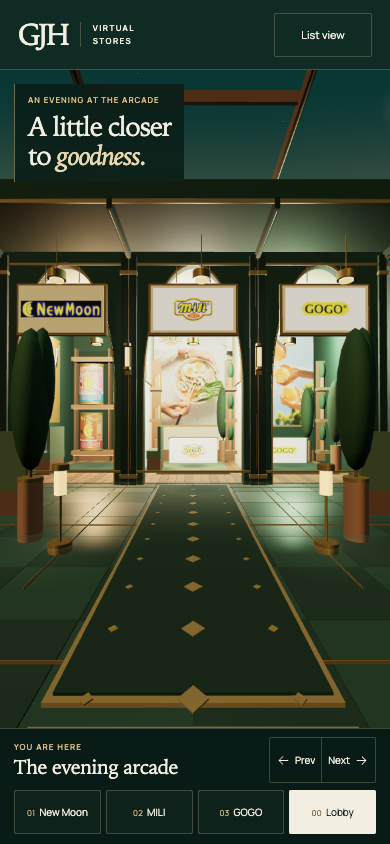
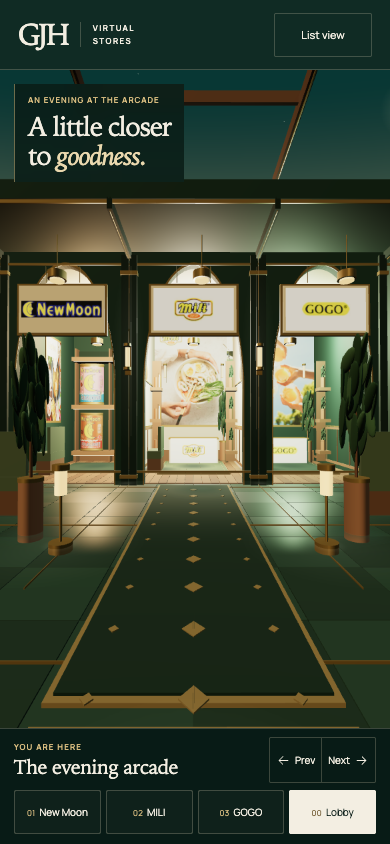
Polish V10 interiors, foliage and full-wrap can labels
Claude-Session: https://claude.ai/code/session_01N1UG954VUaWHEG8R9F3e2T

diff --git a/demos/corporate/gjh/v10/script.js b/demos/corporate/gjh/v10/script.js
@@ -151,7 +151,9 @@ async function initialize() {
   await Promise.all(filenames.map(async name => {
     const texture = await loader.loadAsync(`assets/${name}`);
     texture.colorSpace = THREE.SRGBColorSpace;
-    texture.anisotropy = Math.min(4, renderer.capabilities.getMaxAnisotropy());
+    texture.minFilter = THREE.LinearMipmapLinearFilter;
+    texture.magFilter = THREE.LinearFilter;
+    texture.anisotropy = Math.min(8, renderer.capabilities.getMaxAnisotropy());
     textures.set(name, texture);
   }));
   const material = (color, extra = {}) => new THREE.MeshStandardMaterial({color, roughness: .78, ...extra});
@@ -160,7 +162,8 @@ async function initialize() {
     wood: material(0x73543c), woodLight: material(0x846447), brass: material(0xb89a59, {metalness: .62, roughness: .37}),
     stone: material(0x40594b, {metalness: .12, roughness: .29}), stoneAlt: material(0x394e42, {metalness: .1, roughness: .34}),
     rug: material(0x253d32, {roughness: .96}), rugBorder: material(0x8d794b, {roughness: .88}),
-    upholstery: material(0x55654a), terracotta: material(0x936d50), foliage: material(0x314e35),
+    upholstery: material(0x55654a), terracotta: material(0x936d50),
+    foliage: material(0x314e35, {roughness: .95}), foliageLight: material(0x486646, {roughness: .95}),
     glow: material(0xffe4ae, {emissive: 0xffc773, emissiveIntensity: 1.1})
   };
   // Instancing keeps architectural detail inexpensive: one draw per geometry/material pair.
@@ -175,10 +178,10 @@ async function initialize() {
   const scale = new THREE.Vector3();
   const position = new THREE.Vector3();
   const rotation = new THREE.Euler();
-  function solid(type, mat, x, y, z, sx, sy, sz, ry = 0) {
+  function solid(type, mat, x, y, z, sx, sy, sz, ry = 0, rx = 0, rz = 0) {
     const key = `${type}:${mat}`;
     if (!batches.has(key)) batches.set(key, {geometry: geometries[type], material: materials[mat], transforms: []});
-    position.set(x, y, z); scale.set(sx, sy, sz); rotation.set(0, ry, 0); quaternion.setFromEuler(rotation);
+    position.set(x, y, z); scale.set(sx, sy, sz); rotation.set(rx, ry, rz); quaternion.setFromEuler(rotation);
     matrix.compose(position, quaternion, scale);
     batches.get(key).transforms.push(matrix.clone());
   }
@@ -307,12 +310,28 @@ async function initialize() {
     box('upholstery', x + Math.sin(ry) * .35, .92, z + Math.cos(ry) * .35, 2.15, .65, .18, ry);
     shadow(x, z, 3.3, 2.5);
   }
+  // Smooth, overlapping leaves share the existing sphere batches: no per-leaf draws.
+  function foliage(x, y, z, size = 1) {
+    // Stagger branch heights and leaf tilt rather than stacking conical whorls.
+    for (let branch = 0; branch < 9; branch++) {
+      const angle = branch * 2.39996;
+      const spread = Math.sin((branch + 1) / 10 * Math.PI) * .36;
+      for (let leaf = 0; leaf < 4; leaf++) {
+        const turn = angle + leaf * 1.7;
+        solid('sphere', (branch + leaf) % 4 ? 'foliage' : 'foliageLight',
+          x + (Math.sin(angle) * spread + Math.sin(turn) * .14) * size,
+          y + ((branch / 8 - .5) * .9 + Math.cos(turn) * .13) * size,
+          z + (Math.cos(angle) * spread + Math.cos(turn) * .14) * size,
+          .135 * size, .25 * size, .055 * size,
+          turn, .35 + Math.cos(turn) * .45, Math.sin(turn * 1.3) * .65);
+      }
+    }
+  }
   function plant(x, z) {
     cylinder('terracotta', x, .36, z, .34, .7);
     cylinder('brass', x, .71, z, .355, .045);
     cylinder('wood', x, 1.05, z, .045, 1.3);
-    sphere('foliage', x, 1.65, z, .55, .85, .48);
-    sphere('foliage', x + .28, 1.9, z - .12, .36, .62, .35);
+    foliage(x, 1.65, z);
     shadow(x, z, 2, 2);
   }
   // Layered cornices and softly lit pilasters articulate the arcade edges.
@@ -381,10 +400,11 @@ async function initialize() {
       const cans = createProductModels(THREE, arcade, textures, materials.brass);
       interactive.push(...cans);
       cans.forEach(mesh => proportioned.push({mesh, width: mesh.scale.x}));
-      artwork('new-moon-brand-cover.jpg', x - 3.35, 2.6, -5.8, 2.4, Math.PI / 2);
+      // Keep both faces clear of the wall and each other; coplanar backing caused jagged gold patches.
+      artwork('new-moon-brand-cover.jpg', x - 3.29, 2.6, -5.8, 2.4, Math.PI / 2);
       const coverTexture = textures.get('new-moon-brand-cover.jpg');
       const coverFrame = new THREE.Mesh(geometries.box, materials.brass);
-      coverFrame.position.set(x - 3.38, 2.6, -5.8);
+      coverFrame.position.set(x - 3.34, 2.6, -5.8);
       coverFrame.scale.set(.06, 2.4 * coverTexture.image.height / coverTexture.image.width + .12, 2.52);
       arcade.add(coverFrame);
       artwork('new-moon-logo.svg', x + 2.35, .65, -4.52, .7);
@@ -402,6 +422,19 @@ async function initialize() {
       box(room === 'mili' ? 'ivory' : 'green', x, .42, -7.7, 3.8, .8, 1.1);
       box('brass', x, .84, -7.7, 3.9, .045, 1.15);
       artwork(`${room}-logo.jpg`, x, .47, -7.12, 1.45);
+      // Layer the room edges, leaving the artwork and central approach unobstructed.
+      for (const side of [-1, 1]) {
+        for (const y of [.18, 1.18, 4.65]) box('woodLight', x + side * 3.3, y, -5.5, .06, .075, 8.6);
+        box('brass', x + side * 3.25, 1.24, -5.5, .025, .025, 8.6);
+        for (const z of [-8.8, -7, -5.2, -3.4]) box('woodLight', x + side * 3.3, .68, z, .06, .95, .045);
+        box('brass', x + side * 2.45, 3.05, -9.79, .23, .7, .12);
+        cylinder('glow', x + side * 2.45, 3.08, -9.6, .1, .42);
+        cylinder('brass', x + side * 2.45, 3.32, -9.6, .15, .045);
+        halo(x + side * 2.45, 3.08, -9.45, 1.3);
+      }
+      // Fine woven-style rug border, not additional merchandise.
+      for (const dx of [-2.05, 2.05]) box('rugBorder', x + dx, .084, -5.6, .025, .006, 5.2);
+      for (const z of [-8.2, -3]) box('rugBorder', x, .084, z, 4.1, .006, .025);
       // Shelves contain architectural decor only, never fictional products.
       for (const side of [-1, 1]) {
         const sx = x + side * 2.85;
@@ -409,9 +442,10 @@ async function initialize() {
         for (const y of [.45, 1.4, 2.35]) {
           box('woodLight', sx, y, -6.6, .85, .1, .85);
           cylinder('terracotta', sx, y + .21, -6.6, .17, .32);
-          if (side > 0) sphere('foliage', sx, y + .55, -6.6, .24, .28, .24);
+          if (side > 0) foliage(sx, y + .49, -6.6, .34);
           else {
             box('ivory', sx + .24, y + .25, -6.6, .07, .4, .3);
+            box('wood', sx + .12, y + .28, -6.6, .065, .46, .3, -.12);
             box('brass', sx + .33, y + .23, -6.6, .06, .36, .3);
           }
         }
@@ -419,7 +453,7 @@ async function initialize() {
       bench(x - 2.55, -3.9, Math.PI / 2);
       plant(x + 2.5, -8.9);
       if (room === 'gogo') {
-        plant(x - 2.5, -8.9); plant(x + 2.5, -3.6);
+        plant(x - 2.5, -8.9);
         for (let z = -8.8; z < -3; z += .5) box('woodLight', x - 3.32, 2.6, z, .065, 4.7, .045);
         box('brass', x - 3.27, 3.9, -6, .035, .035, 6);
       } else {

diff --git a/companies/gjh/index.html b/companies/gjh/index.html
@@ -10,7 +10,7 @@
   <meta name="apple-mobile-web-app-status-bar-style" content="default">
   <meta name="apple-mobile-web-app-title" content="Webpage Gallery">
   <meta name="app-version" content="1.0.0">
-  <meta name="app-build" content="0d7316713c10fcd4">
+  <meta name="app-build" content="d392d4db7220319b">
   <meta http-equiv="Content-Security-Policy" content="default-src 'self'; script-src 'self'; style-src 'self' 'unsafe-inline'; img-src 'self' data:; font-src 'self'; connect-src 'self'; frame-src 'self'; worker-src 'self'; manifest-src 'self'; object-src 'none'; base-uri 'self'; form-action 'none'">
   <title>Goh Joo Hin — Design collection</title>
   <link rel="icon" href="../../assets/icons/gallery.svg" type="image/svg+xml">
@@ -36,7 +36,7 @@
         <a class="nav-link categories-link" href="../../companies/index.html#filters">Categories</a>
         <a class="nav-link about-link" href="#about-gallery">About the gallery</a>
       </nav>
-      <div class="app-release"><span class="app-version">v1.0.0 <small>0d7316713c10fcd4</small></span><button type="button" id="check-update" hidden>Check updates</button></div>
+      <div class="app-release"><span class="app-version">v1.0.0 <small>d392d4db7220319b</small></span><button type="button" id="check-update" hidden>Check updates</button></div>
     </div>
   </header>
   <aside class="update-notice" id="update-notice" hidden aria-label="Gallery update">
@@ -90,7 +90,7 @@
     <div><span class="footer-brand">Good ideas deserve a place.</span><p>Independent website design concepts, organized by company.<br>Explore the possibilities. Open a demo. Find a direction.</p></div>
     <div class="footer-note"><p>Concepts are unofficial and do not imply company endorsement.</p><a href="../../index.html">All companies <svg class="gallery-icon" xmlns="http://www.w3.org/2000/svg" viewBox="0 0 24 24" fill="none" stroke="currentColor" stroke-width="1.5" stroke-linecap="round" stroke-linejoin="round" aria-hidden="true" focusable="false"><path d="M5 19 19 5M7 5h12v12"/></svg></a></div>
   </footer>
-  <div class="app-tools"><p id="app-status" role="status" aria-live="polite">Version v1.0.0 · 0d7316713c10fcd4</p><button type="button" id="install-app" hidden>Install gallery</button><details><summary>Install help &amp; offline access</summary><p>Use your browser's Install action. On iPhone or iPad, open Share and choose Add to Home Screen. Company browsing, search, design collections and thumbnails work offline once saved. Demos and large screenshots need a connection.</p></details></div>
+  <div class="app-tools"><p id="app-status" role="status" aria-live="polite">Version v1.0.0 · d392d4db7220319b</p><button type="button" id="install-app" hidden>Install gallery</button><details><summary>Install help &amp; offline access</summary><p>Use your browser's Install action. On iPhone or iPad, open Share and choose Add to Home Screen. Company browsing, search, design collections and thumbnails work offline once saved. Demos and large screenshots need a connection.</p></details></div>
   <button class="scroll-top" type="button" id="scroll-top" aria-label="Back to top" hidden><svg class="gallery-icon" xmlns="http://www.w3.org/2000/svg" viewBox="0 0 24 24" fill="none" stroke="currentColor" stroke-width="1.5" stroke-linecap="round" stroke-linejoin="round" aria-hidden="true" focusable="false"><path d="M12 19V5M6 11l6-6 6 6"/></svg></button>
   <dialog id="update-dialog" aria-labelledby="update-title"><div class="update-spinner" aria-hidden="true"></div><h2 id="update-title">Updating Webpage Gallery</h2><p id="update-progress" role="status">Preparing the latest version…</p><button type="button" id="close-update" hidden>Close and try again</button></dialog>
 </body>

diff --git a/companies/index.html b/companies/index.html
@@ -10,7 +10,7 @@
   <meta name="apple-mobile-web-app-status-bar-style" content="default">
   <meta name="apple-mobile-web-app-title" content="Webpage Gallery">
   <meta name="app-version" content="1.0.0">
-  <meta name="app-build" content="0d7316713c10fcd4">
+  <meta name="app-build" content="d392d4db7220319b">
   <meta http-equiv="Content-Security-Policy" content="default-src 'self'; script-src 'self'; style-src 'self' 'unsafe-inline'; img-src 'self' data:; font-src 'self'; connect-src 'self'; frame-src 'self'; worker-src 'self'; manifest-src 'self'; object-src 'none'; base-uri 'self'; form-action 'none'">
   <title>Companies — Webpage Design Gallery</title>
   <link rel="icon" href="../assets/icons/gallery.svg" type="image/svg+xml">
@@ -36,7 +36,7 @@
         <a class="nav-link categories-link" href="../companies/index.html#filters">Categories</a>
         <a class="nav-link about-link" href="#about-gallery">About the gallery</a>
       </nav>
-      <div class="app-release"><span class="app-version">v1.0.0 <small>0d7316713c10fcd4</small></span><button type="button" id="check-update" hidden>Check updates</button></div>
+      <div class="app-release"><span class="app-version">v1.0.0 <small>d392d4db7220319b</small></span><button type="button" id="check-update" hidden>Check updates</button></div>
     </div>
   </header>
   <aside class="update-notice" id="update-notice" hidden aria-label="Gallery update">
@@ -66,7 +66,7 @@
     <div><span class="footer-brand">Good ideas deserve a place.</span><p>Independent website design concepts, organized by company.<br>Explore the possibilities. Open a demo. Find a direction.</p></div>
     <div class="footer-note"><p>Concepts are unofficial and do not imply company endorsement.</p><a href="../index.html">All companies <svg class="gallery-icon" xmlns="http://www.w3.org/2000/svg" viewBox="0 0 24 24" fill="none" stroke="currentColor" stroke-width="1.5" stroke-linecap="round" stroke-linejoin="round" aria-hidden="true" focusable="false"><path d="M5 19 19 5M7 5h12v12"/></svg></a></div>
   </footer>
-  <div class="app-tools"><p id="app-status" role="status" aria-live="polite">Version v1.0.0 · 0d7316713c10fcd4</p><button type="button" id="install-app" hidden>Install gallery</button><details><summary>Install help &amp; offline access</summary><p>Use your browser's Install action. On iPhone or iPad, open Share and choose Add to Home Screen. Company browsing, search, design collections and thumbnails work offline once saved. Demos and large screenshots need a connection.</p></details></div>
+  <div class="app-tools"><p id="app-status" role="status" aria-live="polite">Version v1.0.0 · d392d4db7220319b</p><button type="button" id="install-app" hidden>Install gallery</button><details><summary>Install help &amp; offline access</summary><p>Use your browser's Install action. On iPhone or iPad, open Share and choose Add to Home Screen. Company browsing, search, design collections and thumbnails work offline once saved. Demos and large screenshots need a connection.</p></details></div>
   <button class="scroll-top" type="button" id="scroll-top" aria-label="Back to top" hidden><svg class="gallery-icon" xmlns="http://www.w3.org/2000/svg" viewBox="0 0 24 24" fill="none" stroke="currentColor" stroke-width="1.5" stroke-linecap="round" stroke-linejoin="round" aria-hidden="true" focusable="false"><path d="M12 19V5M6 11l6-6 6 6"/></svg></button>
   <dialog id="update-dialog" aria-labelledby="update-title"><div class="update-spinner" aria-hidden="true"></div><h2 id="update-title">Updating Webpage Gallery</h2><p id="update-progress" role="status">Preparing the latest version…</p><button type="button" id="close-update" hidden>Close and try again</button></dialog>
 </body>

diff --git a/offline.html b/offline.html
@@ -10,7 +10,7 @@
   <meta name="apple-mobile-web-app-status-bar-style" content="default">
   <meta name="apple-mobile-web-app-title" content="Webpage Gallery">
   <meta name="app-version" content="1.0.0">
-  <meta name="app-build" content="0d7316713c10fcd4">
+  <meta name="app-build" content="d392d4db7220319b">
   <meta http-equiv="Content-Security-Policy" content="default-src 'self'; script-src 'self'; style-src 'self' 'unsafe-inline'; img-src 'self' data:; font-src 'self'; connect-src 'self'; frame-src 'self'; worker-src 'self'; manifest-src 'self'; object-src 'none'; base-uri 'self'; form-action 'none'">
   <title>Connection needed — Webpage Design Gallery</title>
   <link rel="icon" href="assets/icons/gallery.svg" type="image/svg+xml">
@@ -36,7 +36,7 @@
         <a class="nav-link categories-link" href="companies/index.html#filters">Categories</a>
         <a class="nav-link about-link" href="#about-gallery">About the gallery</a>
       </nav>
-      <div class="app-release"><span class="app-version">v1.0.0 <small>0d7316713c10fcd4</small></span><button type="button" id="check-update" hidden>Check updates</button></div>
+      <div class="app-release"><span class="app-version">v1.0.0 <small>d392d4db7220319b</small></span><button type="button" id="check-update" hidden>Check updates</button></div>
     </div>
   </header>
   <aside class="update-notice" id="update-notice" hidden aria-label="Gallery update">
@@ -56,7 +56,7 @@
     <div><span class="footer-brand">Good ideas deserve a place.</span><p>Independent website design concepts, organized by company.<br>Explore the possibilities. Open a demo. Find a direction.</p></div>
     <div class="footer-note"><p>Concepts are unofficial and do not imply company endorsement.</p><a href="index.html">All companies <svg class="gallery-icon" xmlns="http://www.w3.org/2000/svg" viewBox="0 0 24 24" fill="none" stroke="currentColor" stroke-width="1.5" stroke-linecap="round" stroke-linejoin="round" aria-hidden="true" focusable="false"><path d="M5 19 19 5M7 5h12v12"/></svg></a></div>
   </footer>
-  <div class="app-tools"><p id="app-status" role="status" aria-live="polite">Version v1.0.0 · 0d7316713c10fcd4</p><button type="button" id="install-app" hidden>Install gallery</button><details><summary>Install help &amp; offline access</summary><p>Use your browser's Install action. On iPhone or iPad, open Share and choose Add to Home Screen. Company browsing, search, design collections and thumbnails work offline once saved. Demos and large screenshots need a connection.</p></details></div>
+  <div class="app-tools"><p id="app-status" role="status" aria-live="polite">Version v1.0.0 · d392d4db7220319b</p><button type="button" id="install-app" hidden>Install gallery</button><details><summary>Install help &amp; offline access</summary><p>Use your browser's Install action. On iPhone or iPad, open Share and choose Add to Home Screen. Company browsing, search, design collections and thumbnails work offline once saved. Demos and large screenshots need a connection.</p></details></div>
   <button class="scroll-top" type="button" id="scroll-top" aria-label="Back to top" hidden><svg class="gallery-icon" xmlns="http://www.w3.org/2000/svg" viewBox="0 0 24 24" fill="none" stroke="currentColor" stroke-width="1.5" stroke-linecap="round" stroke-linejoin="round" aria-hidden="true" focusable="false"><path d="M12 19V5M6 11l6-6 6 6"/></svg></button>
   <dialog id="update-dialog" aria-labelledby="update-title"><div class="update-spinner" aria-hidden="true"></div><h2 id="update-title">Updating Webpage Gallery</h2><p id="update-progress" role="status">Preparing the latest version…</p><button type="button" id="close-update" hidden>Close and try again</button></dialog>
 </body>

diff --git a/compare/index.html b/compare/index.html
@@ -10,7 +10,7 @@
   <meta name="apple-mobile-web-app-status-bar-style" content="default">
   <meta name="apple-mobile-web-app-title" content="Webpage Gallery">
   <meta name="app-version" content="1.0.0">
-  <meta name="app-build" content="0d7316713c10fcd4">
+  <meta name="app-build" content="d392d4db7220319b">
   <meta http-equiv="Content-Security-Policy" content="default-src 'self'; script-src 'self'; style-src 'self' 'unsafe-inline'; img-src 'self' data:; font-src 'self'; connect-src 'self'; frame-src 'self'; worker-src 'self'; manifest-src 'self'; object-src 'none'; base-uri 'self'; form-action 'none'">
   <title>Compare — Webpage Design Gallery</title>
   <link rel="icon" href="../assets/icons/gallery.svg" type="image/svg+xml">
@@ -36,7 +36,7 @@
         <a class="nav-link categories-link" href="../companies/index.html#filters">Categories</a>
         <a class="nav-link about-link" href="#about-gallery">About the gallery</a>
       </nav>
-      <div class="app-release"><span class="app-version">v1.0.0 <small>0d7316713c10fcd4</small></span><button type="button" id="check-update" hidden>Check updates</button></div>
+      <div class="app-release"><span class="app-version">v1.0.0 <small>d392d4db7220319b</small></span><button type="button" id="check-update" hidden>Check updates</button></div>
     </div>
   </header>
   <aside class="update-notice" id="update-notice" hidden aria-label="Gallery update">
@@ -51,7 +51,7 @@
     <div><span class="footer-brand">Good ideas deserve a place.</span><p>Independent website design concepts, organized by company.<br>Explore the possibilities. Open a demo. Find a direction.</p></div>
     <div class="footer-note"><p>Concepts are unofficial and do not imply company endorsement.</p><a href="../index.html">All companies <svg class="gallery-icon" xmlns="http://www.w3.org/2000/svg" viewBox="0 0 24 24" fill="none" stroke="currentColor" stroke-width="1.5" stroke-linecap="round" stroke-linejoin="round" aria-hidden="true" focusable="false"><path d="M5 19 19 5M7 5h12v12"/></svg></a></div>
   </footer>
-  <div class="app-tools"><p id="app-status" role="status" aria-live="polite">Version v1.0.0 · 0d7316713c10fcd4</p><button type="button" id="install-app" hidden>Install gallery</button><details><summary>Install help &amp; offline access</summary><p>Use your browser's Install action. On iPhone or iPad, open Share and choose Add to Home Screen. Company browsing, search, design collections and thumbnails work offline once saved. Demos and large screenshots need a connection.</p></details></div>
+  <div class="app-tools"><p id="app-status" role="status" aria-live="polite">Version v1.0.0 · d392d4db7220319b</p><button type="button" id="install-app" hidden>Install gallery</button><details><summary>Install help &amp; offline access</summary><p>Use your browser's Install action. On iPhone or iPad, open Share and choose Add to Home Screen. Company browsing, search, design collections and thumbnails work offline once saved. Demos and large screenshots need a connection.</p></details></div>
   <button class="scroll-top" type="button" id="scroll-top" aria-label="Back to top" hidden><svg class="gallery-icon" xmlns="http://www.w3.org/2000/svg" viewBox="0 0 24 24" fill="none" stroke="currentColor" stroke-width="1.5" stroke-linecap="round" stroke-linejoin="round" aria-hidden="true" focusable="false"><path d="M12 19V5M6 11l6-6 6 6"/></svg></button>
   <dialog id="update-dialog" aria-labelledby="update-title"><div class="update-spinner" aria-hidden="true"></div><h2 id="update-title">Updating Webpage Gallery</h2><p id="update-progress" role="status">Preparing the latest version…</p><button type="button" id="close-update" hidden>Close and try again</button></dialog>
 </body>

diff --git a/designs/index.html b/designs/index.html
@@ -10,7 +10,7 @@
   <meta name="apple-mobile-web-app-status-bar-style" content="default">
   <meta name="apple-mobile-web-app-title" content="Webpage Gallery">
   <meta name="app-version" content="1.0.0">
-  <meta name="app-build" content="0d7316713c10fcd4">
+  <meta name="app-build" content="d392d4db7220319b">
   <meta http-equiv="Content-Security-Policy" content="default-src 'self'; script-src 'self'; style-src 'self' 'unsafe-inline'; img-src 'self' data:; font-src 'self'; connect-src 'self'; frame-src 'self'; worker-src 'self'; manifest-src 'self'; object-src 'none'; base-uri 'self'; form-action 'none'">
   <title>Design — Webpage Design Gallery</title>
   <link rel="icon" href="../assets/icons/gallery.svg" type="image/svg+xml">
@@ -36,7 +36,7 @@
         <a class="nav-link categories-link" href="../companies/index.html#filters">Categories</a>
         <a class="nav-link about-link" href="#about-gallery">About the gallery</a>
       </nav>
-      <div class="app-release"><span class="app-version">v1.0.0 <small>0d7316713c10fcd4</small></span><button type="button" id="check-update" hidden>Check updates</button></div>
+      <div class="app-release"><span class="app-version">v1.0.0 <small>d392d4db7220319b</small></span><button type="button" id="check-update" hidden>Check updates</button></div>
     </div>
   </header>
   <aside class="update-notice" id="update-notice" hidden aria-label="Gallery update">
@@ -51,7 +51,7 @@
     <div><span class="footer-brand">Good ideas deserve a place.</span><p>Independent website design concepts, organized by company.<br>Explore the possibilities. Open a demo. Find a direction.</p></div>
     <div class="footer-note"><p>Concepts are unofficial and do not imply company endorsement.</p><a href="../index.html">All companies <svg class="gallery-icon" xmlns="http://www.w3.org/2000/svg" viewBox="0 0 24 24" fill="none" stroke="currentColor" stroke-width="1.5" stroke-linecap="round" stroke-linejoin="round" aria-hidden="true" focusable="false"><path d="M5 19 19 5M7 5h12v12"/></svg></a></div>
   </footer>
-  <div class="app-tools"><p id="app-status" role="status" aria-live="polite">Version v1.0.0 · 0d7316713c10fcd4</p><button type="button" id="install-app" hidden>Install gallery</button><details><summary>Install help &amp; offline access</summary><p>Use your browser's Install action. On iPhone or iPad, open Share and choose Add to Home Screen. Company browsing, search, design collections and thumbnails work offline once saved. Demos and large screenshots need a connection.</p></details></div>
+  <div class="app-tools"><p id="app-status" role="status" aria-live="polite">Version v1.0.0 · d392d4db7220319b</p><button type="button" id="install-app" hidden>Install gallery</button><details><summary>Install help &amp; offline access</summary><p>Use your browser's Install action. On iPhone or iPad, open Share and choose Add to Home Screen. Company browsing, search, design collections and thumbnails work offline once saved. Demos and large screenshots need a connection.</p></details></div>
   <button class="scroll-top" type="button" id="scroll-top" aria-label="Back to top" hidden><svg class="gallery-icon" xmlns="http://www.w3.org/2000/svg" viewBox="0 0 24 24" fill="none" stroke="currentColor" stroke-width="1.5" stroke-linecap="round" stroke-linejoin="round" aria-hidden="true" focusable="false"><path d="M12 19V5M6 11l6-6 6 6"/></svg></button>
   <dialog id="update-dialog" aria-labelledby="update-title"><div class="update-spinner" aria-hidden="true"></div><h2 id="update-title">Updating Webpage Gallery</h2><p id="update-progress" role="status">Preparing the latest version…</p><button type="button" id="close-update" hidden>Close and try again</button></dialog>
 </body>

diff --git a/index.html b/index.html
@@ -10,7 +10,7 @@
   <meta name="apple-mobile-web-app-status-bar-style" content="default">
   <meta name="apple-mobile-web-app-title" content="Webpage Gallery">
   <meta name="app-version" content="1.0.0">
-  <meta name="app-build" content="0d7316713c10fcd4">
+  <meta name="app-build" content="d392d4db7220319b">
   <meta http-equiv="Content-Security-Policy" content="default-src 'self'; script-src 'self'; style-src 'self' 'unsafe-inline'; img-src 'self' data:; font-src 'self'; connect-src 'self'; frame-src 'self'; worker-src 'self'; manifest-src 'self'; object-src 'none'; base-uri 'self'; form-action 'none'">
   <title>Companies — Webpage Design Gallery</title>
   <link rel="icon" href="assets/icons/gallery.svg" type="image/svg+xml">
@@ -36,7 +36,7 @@
         <a class="nav-link categories-link" href="companies/index.html#filters">Categories</a>
         <a class="nav-link about-link" href="#about-gallery">About the gallery</a>
       </nav>
-      <div class="app-release"><span class="app-version">v1.0.0 <small>0d7316713c10fcd4</small></span><button type="button" id="check-update" hidden>Check updates</button></div>
+      <div class="app-release"><span class="app-version">v1.0.0 <small>d392d4db7220319b</small></span><button type="button" id="check-update" hidden>Check updates</button></div>
     </div>
   </header>
   <aside class="update-notice" id="update-notice" hidden aria-label="Gallery update">
@@ -66,7 +66,7 @@
     <div><span class="footer-brand">Good ideas deserve a place.</span><p>Independent website design concepts, organized by company.<br>Explore the possibilities. Open a demo. Find a direction.</p></div>
     <div class="footer-note"><p>Concepts are unofficial and do not imply company endorsement.</p><a href="index.html">All companies <svg class="gallery-icon" xmlns="http://www.w3.org/2000/svg" viewBox="0 0 24 24" fill="none" stroke="currentColor" stroke-width="1.5" stroke-linecap="round" stroke-linejoin="round" aria-hidden="true" focusable="false"><path d="M5 19 19 5M7 5h12v12"/></svg></a></div>
   </footer>
-  <div class="app-tools"><p id="app-status" role="status" aria-live="polite">Version v1.0.0 · 0d7316713c10fcd4</p><button type="button" id="install-app" hidden>Install gallery</button><details><summary>Install help &amp; offline access</summary><p>Use your browser's Install action. On iPhone or iPad, open Share and choose Add to Home Screen. Company browsing, search, design collections and thumbnails work offline once saved. Demos and large screenshots need a connection.</p></details></div>
+  <div class="app-tools"><p id="app-status" role="status" aria-live="polite">Version v1.0.0 · d392d4db7220319b</p><button type="button" id="install-app" hidden>Install gallery</button><details><summary>Install help &amp; offline access</summary><p>Use your browser's Install action. On iPhone or iPad, open Share and choose Add to Home Screen. Company browsing, search, design collections and thumbnails work offline once saved. Demos and large screenshots need a connection.</p></details></div>
   <button class="scroll-top" type="button" id="scroll-top" aria-label="Back to top" hidden><svg class="gallery-icon" xmlns="http://www.w3.org/2000/svg" viewBox="0 0 24 24" fill="none" stroke="currentColor" stroke-width="1.5" stroke-linecap="round" stroke-linejoin="round" aria-hidden="true" focusable="false"><path d="M12 19V5M6 11l6-6 6 6"/></svg></button>
   <dialog id="update-dialog" aria-labelledby="update-title"><div class="update-spinner" aria-hidden="true"></div><h2 id="update-title">Updating Webpage Gallery</h2><p id="update-progress" role="status">Preparing the latest version…</p><button type="button" id="close-update" hidden>Close and try again</button></dialog>
 </body>

diff --git a/sw.js b/sw.js
@@ -1,5 +1,5 @@
 /* Generated by scripts/build_gallery.py. Edit this template, not sw.js. */
-const BUILD = "0d7316713c10fcd4";
+const BUILD = "d392d4db7220319b";
 const VERSION = "1.0.0";
 const PRECACHE = [
   {
@@ -28,15 +28,15 @@ const PRECACHE = [
   },
   {
     "path": "companies/gjh/index.html",
[2 lines of base64/hex data omitted]
   },
   {
     "path": "companies/index.html",
[2 lines of base64/hex data omitted]
   },
   {
     "path": "compare/index.html",
[2 lines of base64/hex data omitted]
   },
   {
     "path": "data/categories.json",
@@ -60,7 +60,7 @@ const PRECACHE = [
   },
   {
     "path": "demos/corporate/gjh/v10/assets/thumbnail.webp",
[2 lines of base64/hex data omitted]
   },
   {
     "path": "demos/corporate/gjh/v11/assets/thumbnail.webp",
@@ -88,11 +88,11 @@ const PRECACHE = [
   },
   {
     "path": "designs/index.html",
[2 lines of base64/hex data omitted]
   },
   {
     "path": "index.html",
[2 lines of base64/hex data omitted]
   },
   {
     "path": "manifest.webmanifest",
@@ -100,7 +100,7 @@ const PRECACHE = [
   },
   {
     "path": "offline.html",
[2 lines of base64/hex data omitted]
   },
   {
     "path": "src/gallery.js",

diff --git a/demos/corporate/gjh/v10/assets/product-models.js b/demos/corporate/gjh/v10/assets/product-models.js
@@ -23,8 +23,8 @@ function frontLabelTexture(THREE, source) {
 
   // This is a front-view projection, not a reconstruction of unseen artwork.
   // Inverse cylindrical projection preserves the photographed face proportions:
-  // an angular strip samples x = centre + radius * sin(angle). Only the front
-  // hemisphere carries the verified image; the unseen rear remains plain brass.
+  // an angular strip samples x = centre + radius * sin(angle). The same verified
+  // face repeats on the rear; this is not a claim about unseen packaging artwork.
   for (let column = 0; column < canvas.width; column++) {
     const angle0 = (column / canvas.width - .5) * Math.PI;
     const angle1 = ((column + 1) / canvas.width - .5) * Math.PI;
@@ -41,6 +41,8 @@ function frontLabelTexture(THREE, source) {
   const texture = new THREE.CanvasTexture(canvas);
   texture.colorSpace = THREE.SRGBColorSpace;
   texture.anisotropy = source.anisotropy;
+  texture.wrapS = THREE.RepeatWrapping;
+  texture.repeat.x = 2;
   return texture;
 }
 
@@ -54,7 +56,7 @@ export function createProductModels(THREE, scene, textures, brassMaterial) {
   ].map(([radius, height]) => new THREE.Vector2(radius, height));
   const canGeometry = new THREE.LatheGeometry(profile, 32);
   const labelGeometry = new THREE.CylinderGeometry(
-    .974, .974, LABEL_CROP.height / 594, 32, 1, true, -Math.PI / 2, Math.PI
+    .974, .974, LABEL_CROP.height / 594, 64, 1, true, -Math.PI / 2, Math.PI * 2
   );
   const selectable = [];
 

diff --git a/demos/corporate/gjh/v10/README.md b/demos/corporate/gjh/v10/README.md
@@ -14,7 +14,7 @@ Select an entrance, floor marker, floor-plan button or Prev/Next to travel. Arro
 
 ## Rendering and provenance
 
-Three.js 0.170.0 is the sole vendored dependency, copied from its npm tarball as one self-contained module plus MIT license. `assets/sources.json` records official source URLs, manifest identities, local SHA-256 values, vendor hashes, font license and SVG-Icon-Studio icon sources. Source rasters are already at most 1000px. `assets/product-models.js` projects the verified front-label crop onto a cylindrical front hemisphere, preserving the photographed can aspect and adding modeled gold lids/rims. Unseen backs remain plain metal rather than invented label artwork. All four verified products are cans; no fictional box packaging is added.
+Three.js 0.170.0 is the sole vendored dependency, copied from its npm tarball as one self-contained module plus MIT license. `assets/sources.json` records official source URLs, manifest identities, local SHA-256 values, vendor hashes, font license and SVG-Icon-Studio icon sources. Source rasters are already at most 1000px. `assets/product-models.js` projects the verified front-label crop onto a complete cylinder, repeating that same face on the rear while preserving the photographed can aspect and modeled gold lids/rims. This is a repeated verified image, not a reconstruction of unseen reverse packaging. All four verified products are cans; no fictional box packaging is added.
 
 The dusk sky uses a world-space vertical gradient, a static star field, a soft moon and exponential fog. Jade tiles have restrained specular highlights; a patterned runner, brass inlays, planters, benches, lanterns and an open pergola form the forecourt. Layered cornices, gold-trimmed pilasters and warm sconces articulate the edges. Repeated architecture is instanced. Instanced architecture receives but does not cast the key shadow, avoiding the former hard centre-floor band; cheap radial contact shadows and additive pendant pools provide falloff above the rugs. Desktop quality requires an initial viewport of at least 1000px, four logical processors and at least 4GB reported memory (4GB assumed when absent). It adds one static 1024px PCF-soft key-light shadow map and emissive halo sprites, without postprocessing. Shadows/halos disable below 1000px on resize.
 
@@ -33,10 +33,16 @@ export GALLERY_CHROME="/Applications/Google Chrome.app/Contents/MacOS/Google Chr
 
 The v10 browser check launches Chrome with `--use-angle=swiftshader --enable-unsafe-swiftshader --ignore-gpu-blocklist`, waits for scene readiness, and captures the lobby at 1440×900, 768×1024 and 390×844 only with `--capture`. All three interiors and an open product panel are captured at every width into a printed temporary directory. It exercises keyboard room travel, four scene product raycasts, DOM focus highlights, modal focus cycling/Escape/restoration, an entrance click, damped drag, view switching, 44px DOM targets, overflow, local-only requests, lobby breathing/visibility pause, room idle rendering, reduced motion, context loss, forced WebGL denial and no-JavaScript/file browsing. Omit `--capture` to leave committed previews unchanged.
 
-The second polish compared the baseline with two complete visual iterations: lobby, each store and the New Zealand product panel at all three requested viewports. Round one enlarged the portrait entrances and cleared the room foregrounds; round two moved signs clear of masonry, refined proportional framing, added side sconces and restored pendant pools above rugs. The compact portrait lobby now gives the arches and signs more vertical presence without losing the carpet approach. Physical-phone frame rate, screen-reader announcements and Safari remain unverified. Low-poly planting and front-only can projection remain deliberate visual limitations.
+The second polish compared the baseline with two complete visual iterations: lobby, each store and the New Zealand product panel at all three requested viewports. Round one enlarged the portrait entrances and cleared the room foregrounds; round two moved signs clear of masonry, refined proportional framing, added side sconces and restored pendant pools above rugs. The compact portrait lobby gives the arches and signs more vertical presence without losing the carpet approach. Physical-phone frame rate, screen-reader announcements and Safari remain unverified.
 
 The overlay's worst-case contrast over a white scene is 9.50:1 (ivory), 6.48:1 (muted) and 6.05:1 (gold). A two-core desktop override exercised the cheap rendering path; a normal trip sampled an in-flight FOV pull and returned exactly to its destination FOV at rest.
 
 Final second-polish acceptance (`tests/browser_gjh_v10.py --capture`) exited 0 with 124/99/106 lobby draw calls at 1440/768/390, below the 150-call ceiling. Both portrait sizes used the cheap tier; device scale factor 3 exercised DPR caps of 2/2/1.5. Keyboard travel, four product raycasts, pointer/focus highlights, modal focus cycling/Escape/restoration, 44px targets, overflow, motion/visibility rules and all fallback paths passed with no console errors or external requests. `build_gallery.py`, `--check`, all eight `test_gallery.py` unit cases and `browser_gallery.py` also exited 0; the gallery browser harness redirected only its unrelated screenshot output to a temporary directory.
 
 Historical baseline checks (not rerun in this V10-only polish) recorded an existing legacy-demo failure on the v6 `new-moon-logo.svg` receipt comparison and a PWA failure because `#connection-notice` was not visible after an offline reload. Those unrelated failures remain outside this change.
+
+## Third polish — interior and planting
+
+The New Moon side-wall cover and brass backing now have distinct depth positions in front of the wall, removing coplanar gold patches across the label. Local artwork uses trilinear minification, linear magnification and up to 8× anisotropy. GOGO's near-right plant is removed; its two rear planters remain balanced around the verified cover. MILI and GOGO gain lower wall panel trim, cornice rails, rear sconces, inset rug borders and additional book styling only.
+
+Floor and shelf plants use staggered clusters of smoothly shaded, tilted leaves in two shared instanced batches rather than oversized foliage blobs. Lobby layout, camera and navigation are unchanged. Fresh visual review covered the lobby, all three stores and the product panel at 1440×900, 768×1024 and 390×844, plus a separate front/side/rear rendering of all four can labels. Lobby smoke counts were 128/99/106 calls, below 150. Leaf geometry increases triangle count; physical-phone performance remains unverified. Label seams remain visible from the side because no verified reverse-label artwork exists. Owner taste scoring is not independently verified.
